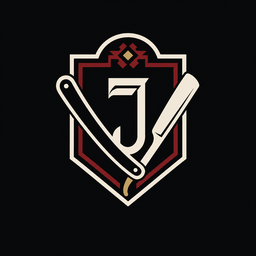
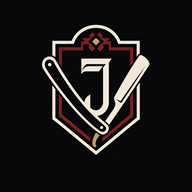
Add files via upload

diff --git a/style.css b/style.css
@@ -2326,3 +2326,77 @@ body.menu-open .mobile-action-bar { transform: translateY(120%); }
     font-size: clamp(2.8rem, 13vw, 4rem);
   }
 }
+
+/* v6 motion performance: short transform-only entrances with no expensive paint effects. */
+.js .reveal {
+  opacity: 0;
+  clip-path: none;
+  filter: none;
+  transform: translate3d(0, 22px, 0);
+  transition: opacity 300ms ease, transform 440ms var(--spring);
+}
+
+.js .reveal.is-visible {
+  opacity: 1;
+  clip-path: none;
+  transform: translate3d(0, 0, 0);
+}
+
+.js .hero-copy > *,
+.js .hero-visual {
+  opacity: 0;
+  transform: translate3d(0, 12px, 0);
+}
+
+.js .page-ready .hero-copy > *,
+.js .page-ready .hero-visual {
+  opacity: 1;
+  transform: translate3d(0, 0, 0);
+  transition: opacity 280ms ease, transform 420ms var(--spring);
+}
+
+.js .page-ready .hero-copy > :nth-child(1) { transition-delay: 0ms; }
+.js .page-ready .hero-copy > :nth-child(2) { transition-delay: 35ms; }
+.js .page-ready .hero-copy > :nth-child(3) { transition-delay: 70ms; }
+.js .page-ready .hero-copy > :nth-child(4) { transition-delay: 105ms; }
+.js .page-ready .hero-copy > :nth-child(5) { transition-delay: 140ms; }
+.js .page-ready .hero-visual { transition-delay: 55ms; }
+
+.page-ready .hero-visual {
+  transition: opacity 280ms ease, transform 420ms var(--spring) !important;
+}
+
+@media (hover: hover) and (pointer: fine) {
+  .page-ready .hero-visual:hover {
+    filter: none;
+    transform: translate3d(0, -6px, 0) scale(1.004);
+  }
+}
+
+@media (max-width: 820px) {
+  .js .hero-copy > *,
+  .js .hero-visual,
+  .js .page-ready .hero-copy > *,
+  .js .page-ready .hero-visual {
+    opacity: 1;
+    transform: none;
+    transition: none;
+  }
+
+  .hero-visual img {
+    transform: none;
+    transition: none;
+  }
+
+  .gallery-item,
+  .mobile-action-bar,
+  .mobile-menu {
+    will-change: auto;
+  }
+}
+
+@media (max-width: 680px) {
+  .page-ready .mobile-action-bar {
+    animation: none;
+  }
+}

diff --git a/index.html b/index.html
@@ -18,13 +18,13 @@
 
   <title>The Studio by Jonny | Albuquerque Barber</title>
   <link rel="canonical" href="https://tbjonny.github.io/NLB/">
-  <link rel="manifest" href="site.webmanifest?v=5">
+  <link rel="manifest" href="site.webmanifest?v=6">
   <link rel="icon" href="favicon.ico" sizes="any">
   <link rel="icon" type="image/png" sizes="32x32" href="icon-32.png">
   <link rel="apple-touch-icon" href="apple-touch-icon.png">
   <link rel="preload" as="image" href="images/design-fade.jpg" fetchpriority="high">
-  <link rel="stylesheet" href="style.css?v=5">
-  <script src="app.js?v=5" defer></script>
+  <link rel="stylesheet" href="style.css?v=6">
+  <script src="app.js?v=6" defer></script>
 </head>
 
 <body id="top">

diff --git a/sw.js b/sw.js
@@ -1,4 +1,4 @@
-const CACHE_NAME = 'studio-by-jonny-v5';
+const CACHE_NAME = 'studio-by-jonny-v6';
 const CORE_ASSETS = [
   './',
   './index.html',

diff --git a/README.md b/README.md
@@ -15,6 +15,7 @@ Personal barber website and installable mobile web app for Jonny, an Albuquerque
 - Built-in hamburger fallback that works even when an older external script is cached
 - Versioned critical assets and fresh-first script/style updates
 - Spring-based interactions and active-card settling on mobile
+- Lightweight transform-only opening motion and frame-limited desktop parallax
 
 ## Before publishing
 